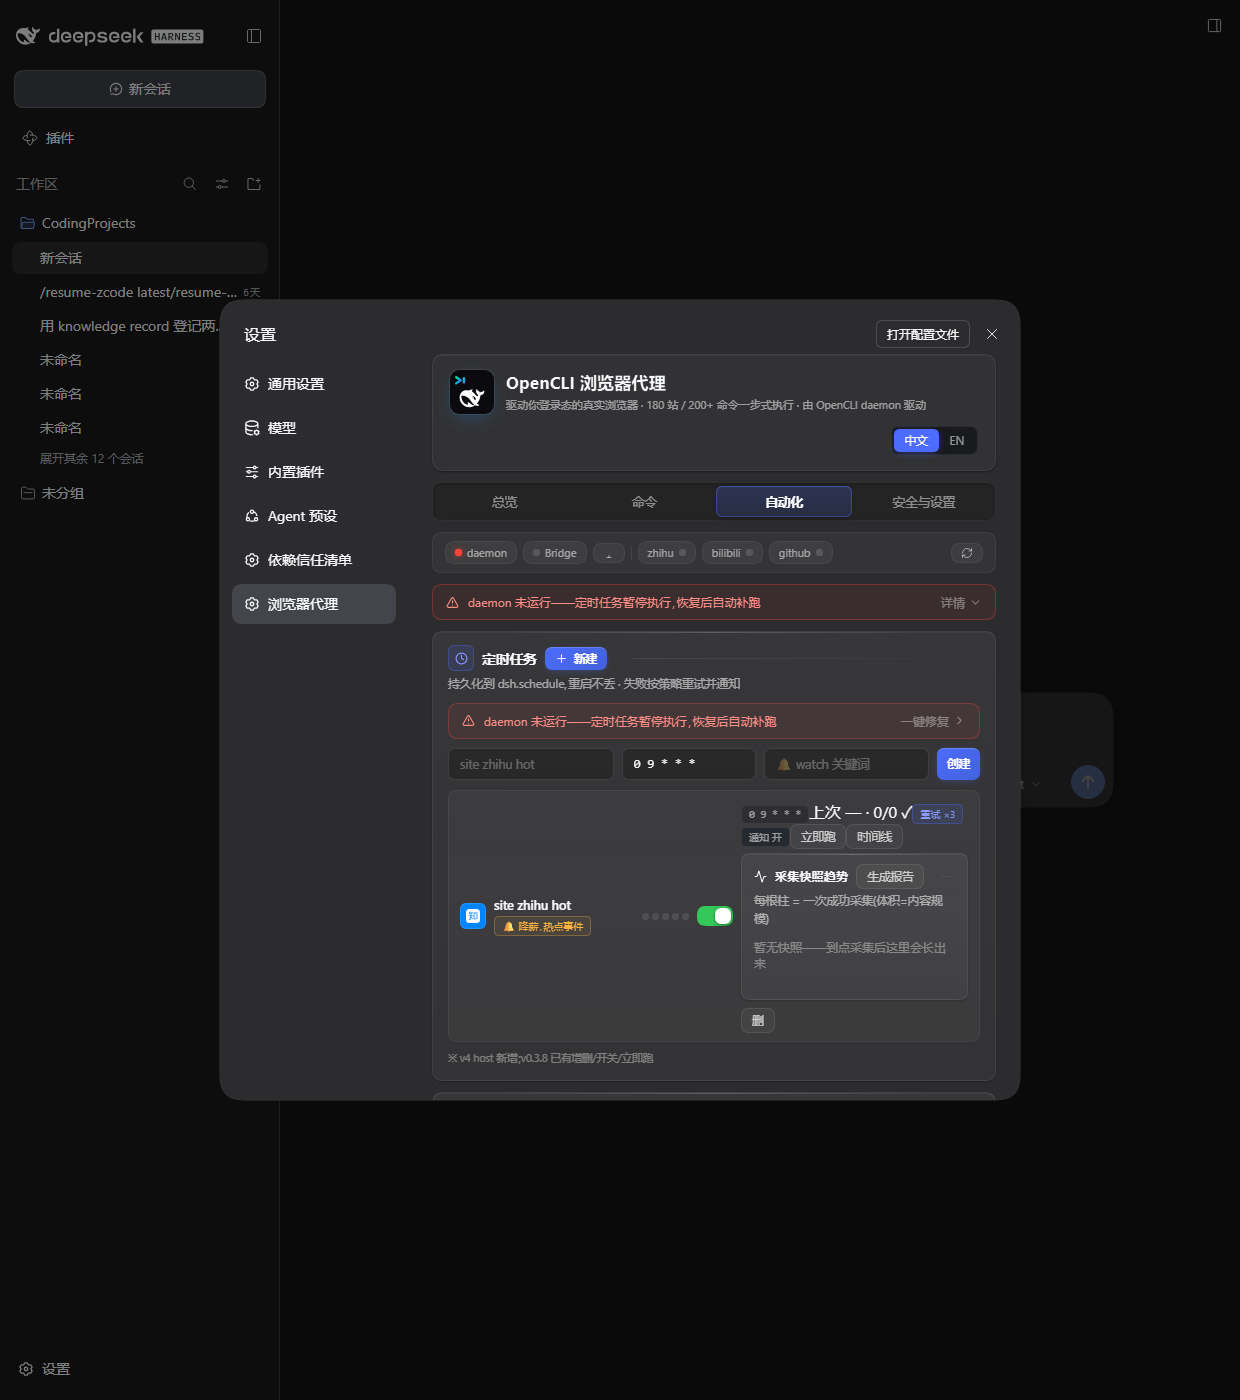
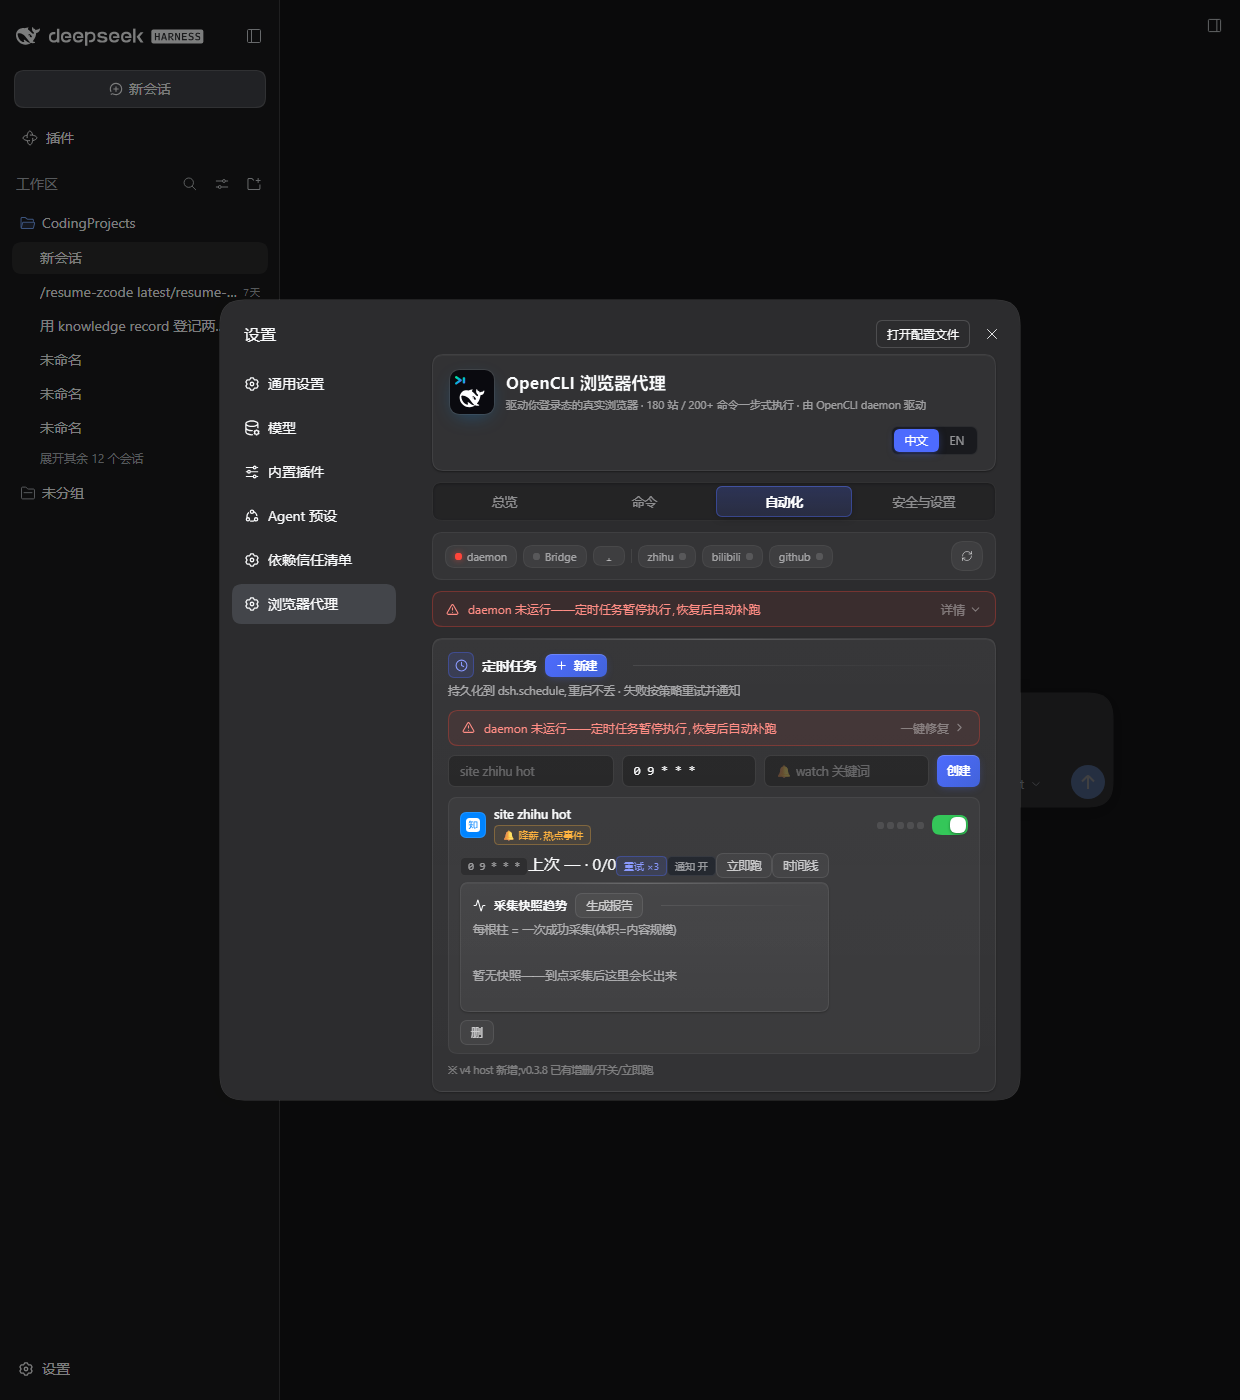
fix(GUI走查): 五连修——定时行内状态轮询刷新+verdict✓✗真实着色/时间线卡片独占整行不裁切/刷新芯片等高/占位对比度/定时执行补 recordTrace;trace 回归断言;159 绿;真机复验全过(docs/FIX-20261008)

diff --git a/src/client.ts b/src/client.ts
@@ -373,7 +373,7 @@ const CSS = `
 .o4-sw::after { content:""; position:absolute; width:16px; height:16px; border-radius:50%; background:#fff; top:2px; left:2px; transition:left .2s cubic-bezier(.4,0,.2,1); box-shadow:0 1px 3px rgba(0,0,0,.4); }
 .o4-sw.on { background:#34C759; }
 .o4-sw.on::after { left:18px; }
-.o4-row { display:flex; align-items:center; gap:8px; background:rgba(255,255,255,.04); border:1px solid rgba(255,255,255,.05); border-radius:11px; padding:8px 11px; transition:all .16s ease; }
+.o4-row { display:flex; align-items:center; gap:8px; flex-wrap:wrap; background:rgba(255,255,255,.04); border:1px solid rgba(255,255,255,.05); border-radius:11px; padding:8px 11px; transition:all .16s ease; }
 .o4-row:hover { border-color:rgba(255,255,255,.13); background:rgba(255,255,255,.05); }
 .o4-row .grow { flex:1; min-width:0; }
 .o4-tt { font-size:12.5px; font-weight:600; display:flex; align-items:center; gap:5px; flex-wrap:wrap; }
@@ -413,7 +413,7 @@ const CSS = `
 .o4-kv .k { color:rgba(249,250,251,.38); }
 .o4-kv .v { color:rgba(249,250,251,.85); word-break:break-all; }
 .o4-fixrow { display:flex; gap:8px; margin-top:9px; }
-.o4-load { color:rgba(249,250,251,.38); font-size:12px; padding:10px 0; }
+.o4-load { color:rgba(249,250,251,.58); font-size:12px; padding:10px 0; }
 .o4-skel { height:11px; border-radius:5px; background:linear-gradient(90deg,#1F242D,#262C37,#1F242D); background-size:200% 100%; animation:o4shimmer 1.4s linear infinite; margin:7px 0; }
 @keyframes o4shimmer { from { background-position:200% 0; } to { background-position:-200% 0; } }
 .o4-note { font-size:10.5px; color:rgba(249,250,251,.38); margin-top:8px; line-height:1.6; }
@@ -657,7 +657,12 @@ function Panel(): ReturnType<typeof createElement> {
   const runScheduleNow = async (id: string): Promise<void> => {
     const r = await rpc('schedule-run-now', { p: { id } } as unknown as Record<string, unknown>)
     showToast(r.ok ? 'run now ✓' : (r.error?.message ?? t2('errReq')), r.ok)
-    window.setTimeout(() => { void loadSchedules() }, 2500)
+    // 重试链路(默认 3 次 × 15s 退避,风控墙 2min)远长于单次刷新窗口——此前只在 +2.5s 刷一次,
+    // 行内"上次/计数"整个周期停在旧值,与时间线的失败记录自相矛盾(GUI 走查 2026-10-08)。
+    // 分散刷新覆盖完整重试周期;schedule-list 是幂等轻量 RPC,多刷无副作用。
+    for (const ms of [2_500, 20_000, 40_000, 70_000, 100_000, 130_000, 160_000, 200_000, 240_000]) {
+      window.setTimeout(() => { void loadSchedules() }, ms)
+    }
   }
 
   const persistRecordings = (next: Recording[]): void => {
@@ -980,7 +985,11 @@ function Panel(): ReturnType<typeof createElement> {
               createElement('button', { className: 'o4-sw' + (s.enabled ? ' on' : ''), title: s.enabled ? 'enabled' : 'disabled', onClick: () => { void toggleSchedule(s.id, !s.enabled) } }),
               createElement('div', { className: 'meta' },
                 createElement('span', { className: 'o4-cron' }, s.cron),
-                createElement('span', null, `${t2('last')} ${hist[0]?.at?.slice(5, 16) ?? '—'} · ${okN}/${hist.length || 0} ✓`),
+                createElement('span', null, `${t2('last')} ${hist[0]?.at?.slice(5, 16) ?? '—'}`,
+                  // verdict 真实着色:空史不挂符号;有失败全红 ✗;有成功绿 ✓——此前恒亮 ✓,
+                  // 与时间线红失败行同屏自相矛盾(GUI 走查 2026-10-08)
+                  createElement('span', { style: { color: hist.length === 0 ? 'inherit' : (okN > 0 ? '#34C759' : '#FF6B63') } },
+                    ` · ${okN}/${hist.length || 0}${hist.length === 0 ? '' : (okN > 0 ? ' ✓' : ' ✗')}`)),
                 createElement('span', { className: 'o4-bdg b' }, t2('retryN')(s.retry ?? 3)),
                 createElement('span', { className: 'o4-bdg' }, s.notify === false ? t2('notifyOff') : t2('notifyOn')),
                 createElement('span', { style: { flex: '1' } }),
@@ -1174,7 +1183,7 @@ function Panel(): ReturnType<typeof createElement> {
         ...(loginResults.length > 0
           ? loginResults.map((r) => chip(null, r.site, r.ok ? 'g' : (r.timedOut ? 'y' : 'r'), `${r.site}: ${r.ok ? t2('online') : (r.timedOut ? t2('timeout') : t2('expired'))}${r.detail !== null ? ` · ${r.detail}` : ''}`))
           : [chip(null, 'zhihu', 'n'), chip(null, 'bilibili', 'n'), chip(null, 'github', 'n')]),
-        createElement('span', { className: 'o4-chip', style: { marginLeft: 'auto', cursor: 'pointer' }, onClick: () => { void runLoginCheck() }, title: t2('recheck') }, ic('refresh', true)),
+        createElement('span', { className: 'o4-chip', style: { marginLeft: 'auto', cursor: 'pointer', boxSizing: 'border-box', height: '23px', justifyContent: 'center' }, onClick: () => { void runLoginCheck() }, title: t2('recheck') }, ic('refresh', true)),
       ),
       // 诊断条
       createElement('div', { className: `o4-diag ${status === null ? 'ok' : (daemonUp && binOk ? 'ok' : 'bad')}`, onClick: () => { void openDiag() } },
@@ -1219,17 +1228,22 @@ function TimelinePanel(props: { id: string; lang: Lang }): ReturnType<typeof cre
   const [err, setErr] = useState('')
   useEffect(() => {
     let alive = true
-    void (async () => {
+    const load = async (): Promise<void> => {
       const r = await rpc<{ history: Array<{ at: string; ok: boolean; summary: string }>; snapshots?: Array<{ at: string; bytes: number; file: string }> }>('schedule-history', { p: { id } } as unknown as Record<string, unknown>)
       if (!alive) return
       if (r.ok) { setHist(r.value?.history ?? []); setSnaps(r.value?.snapshots ?? []) } else setErr(r.error?.message ?? 'err')
-    })()
-    return () => { alive = false }
+    }
+    void load()
+    // 展开期间 15s 轮询:立即跑的重试链路最长 ~2.5min,不轮询则面板停在打开瞬间的旧史
+    const timer = window.setInterval(() => { void load() }, 15_000)
+    return () => { alive = false; window.clearInterval(timer) }
   }, [id])
-  if (err.length > 0) return createElement('div', { className: 'o4-card', style: { padding: '8px 12px', margin: '4px 0 8px', borderRadius: '10px' } }, createElement('div', { className: 'o4-load' }, err))
+  if (err.length > 0) return createElement('div', { className: 'o4-card', style: { padding: '8px 12px', margin: '4px 0 8px', borderRadius: '10px', flex: '1 1 100%' } }, createElement('div', { className: 'o4-load' }, err))
   const bars = snaps ?? []
   const maxB = Math.max(1, ...bars.map((b) => b.bytes))
-  return createElement('div', { className: 'o4-card', style: { padding: '10px 12px', margin: '4px 0 8px', borderRadius: '10px' } },
+  // flex:'1 1 100%' 独占整行——toggle 用 display:contents 把本卡塞进 .o4-row flex 行,
+  // 不占满则被挤到行右侧溢出对话框裁切(GUI 走查 2026-10-08)
+  return createElement('div', { className: 'o4-card', style: { padding: '10px 12px', margin: '4px 0 8px', borderRadius: '10px', flex: '1 1 100%' } },
     createElement('div', { className: 'o4-h3', style: { fontSize: '12px' } }, ic('activity', true), tt('tlT'),
       createElement('span', { style: { marginLeft: 'auto' } },
         createElement('button', { className: 'o4-btn ghost sm', onClick: () => { void (async () => { const r = await rpc<{ path?: string }>('report-build', { request: { id } } as unknown as Record<string, unknown>); window.setTimeout(() => {}, 0); void navigator.clipboard?.writeText(String(r.value?.path ?? '')).catch(() => {}) })() } }, tt('reportBtn')))),

diff --git a/lib/client.js b/lib/client.js
@@ -861,7 +861,7 @@ window.__ModuleLoader__.load({
 		.o4-sw::after { content:""; position:absolute; width:16px; height:16px; border-radius:50%; background:#fff; top:2px; left:2px; transition:left .2s cubic-bezier(.4,0,.2,1); box-shadow:0 1px 3px rgba(0,0,0,.4); }
 		.o4-sw.on { background:#34C759; }
 		.o4-sw.on::after { left:18px; }
-		.o4-row { display:flex; align-items:center; gap:8px; background:rgba(255,255,255,.04); border:1px solid rgba(255,255,255,.05); border-radius:11px; padding:8px 11px; transition:all .16s ease; }
+		.o4-row { display:flex; align-items:center; gap:8px; flex-wrap:wrap; background:rgba(255,255,255,.04); border:1px solid rgba(255,255,255,.05); border-radius:11px; padding:8px 11px; transition:all .16s ease; }
 		.o4-row:hover { border-color:rgba(255,255,255,.13); background:rgba(255,255,255,.05); }
 		.o4-row .grow { flex:1; min-width:0; }
 		.o4-tt { font-size:12.5px; font-weight:600; display:flex; align-items:center; gap:5px; flex-wrap:wrap; }
@@ -901,7 +901,7 @@ window.__ModuleLoader__.load({
 		.o4-kv .k { color:rgba(249,250,251,.38); }
 		.o4-kv .v { color:rgba(249,250,251,.85); word-break:break-all; }
 		.o4-fixrow { display:flex; gap:8px; margin-top:9px; }
-		.o4-load { color:rgba(249,250,251,.38); font-size:12px; padding:10px 0; }
+		.o4-load { color:rgba(249,250,251,.58); font-size:12px; padding:10px 0; }
 		.o4-skel { height:11px; border-radius:5px; background:linear-gradient(90deg,#1F242D,#262C37,#1F242D); background-size:200% 100%; animation:o4shimmer 1.4s linear infinite; margin:7px 0; }
 		@keyframes o4shimmer { from { background-position:200% 0; } to { background-position:-200% 0; } }
 		.o4-note { font-size:10.5px; color:rgba(249,250,251,.38); margin-top:8px; line-height:1.6; }
@@ -1227,9 +1227,21 @@ window.__ModuleLoader__.load({
 		      }
 		    });
 		    showToast(r.ok ? "run now \u2713" : r.error?.message ?? t2("errReq"), r.ok);
-		    window.setTimeout(() => {
-		      void loadSchedules();
-		    }, 2500);
+		    for (const ms of [
+		      2500,
+		      2e4,
+		      4e4,
+		      7e4,
+		      1e5,
+		      13e4,
+		      16e4,
+		      2e5,
+		      24e4
+		    ]) {
+		      window.setTimeout(() => {
+		        void loadSchedules();
+		      }, ms);
+		    }
 		  };
 		  const persistRecordings = (next) => {
 		    setRecordings(next);
@@ -1982,7 +1994,18 @@ window.__ModuleLoader__.load({
 		          className: "meta"
 		        }, (0, import_react.createElement)("span", {
 		          className: "o4-cron"
-		        }, s.cron), (0, import_react.createElement)("span", null, `${t2("last")} ${hist[0]?.at?.slice(5, 16) ?? "\u2014"} \xB7 ${okN}/${hist.length || 0} \u2713`), (0, import_react.createElement)("span", {
+		        }, s.cron), (0, import_react.createElement)(
+		          "span",
+		          null,
+		          `${t2("last")} ${hist[0]?.at?.slice(5, 16) ?? "\u2014"}`,
+		          // verdict 真实着色:空史不挂符号;有失败全红 ✗;有成功绿 ✓——此前恒亮 ✓,
+		          // 与时间线红失败行同屏自相矛盾(GUI 走查 2026-10-08)
+		          (0, import_react.createElement)("span", {
+		            style: {
+		              color: hist.length === 0 ? "inherit" : okN > 0 ? "#34C759" : "#FF6B63"
+		            }
+		          }, ` \xB7 ${okN}/${hist.length || 0}${hist.length === 0 ? "" : okN > 0 ? " \u2713" : " \u2717"}`)
+		        ), (0, import_react.createElement)("span", {
 		          className: "o4-bdg b"
 		        }, t2("retryN")(s.retry ?? 3)), (0, import_react.createElement)("span", {
 		          className: "o4-bdg"
@@ -2500,7 +2523,10 @@ window.__ModuleLoader__.load({
 		      className: "o4-chip",
 		      style: {
 		        marginLeft: "auto",
-		        cursor: "pointer"
+		        cursor: "pointer",
+		        boxSizing: "border-box",
+		        height: "23px",
+		        justifyContent: "center"
 		      },
 		      onClick: () => {
 		        void runLoginCheck();
@@ -2557,7 +2583,7 @@ window.__ModuleLoader__.load({
 		  const [err, setErr] = (0, import_react.useState)("");
 		  (0, import_react.useEffect)(() => {
 		    let alive = true;
-		    void (async () => {
+		    const load = async () => {
 		      const r = await rpc("schedule-history", {
 		        p: {
 		          id
@@ -2568,9 +2594,14 @@ window.__ModuleLoader__.load({
 		        setHist(r.value?.history ?? []);
 		        setSnaps(r.value?.snapshots ?? []);
 		      } else setErr(r.error?.message ?? "err");
-		    })();
+		    };
+		    void load();
+		    const timer = window.setInterval(() => {
+		      void load();
+		    }, 15e3);
 		    return () => {
 		      alive = false;
+		      window.clearInterval(timer);
 		    };
 		  }, [
 		    id
@@ -2580,7 +2611,8 @@ window.__ModuleLoader__.load({
 		    style: {
 		      padding: "8px 12px",
 		      margin: "4px 0 8px",
-		      borderRadius: "10px"
+		      borderRadius: "10px",
+		      flex: "1 1 100%"
 		    }
 		  }, (0, import_react.createElement)("div", {
 		    className: "o4-load"
@@ -2592,7 +2624,8 @@ window.__ModuleLoader__.load({
 		    style: {
 		      padding: "10px 12px",
 		      margin: "4px 0 8px",
-		      borderRadius: "10px"
+		      borderRadius: "10px",
+		      flex: "1 1 100%"
 		    }
 		  }, (0, import_react.createElement)("div", {
 		    className: "o4-h3",

diff --git a/tests/trace.test.ts b/tests/trace.test.ts
@@ -150,9 +150,13 @@ describe('trace-get RPC(按日全量)', () => {
     const r = await svc.traceGet({ date })
     expect(r.ok).toBe(true)
     expect(r.traces.length).toBeGreaterThanOrEqual(4)
-    // 时间序:首条是最早一次 open,末条是最后的 state
-    expect(r.traces[0]!.cmd).toBe('browser dsh open https://example.com/1')
-    expect(r.traces[r.traces.length - 1]!.cmd).toBe('browser dsh state')
+    // 时间序(旧→新):定时链路(v0.4.2 修复)也会写 schedule 行进同一文件,断言只看本桩写的
+    // browser 子集的相对顺序——首条 open/1 在末条 state 之前。
+    const cmds = r.traces.map((t) => t.cmd)
+    const firstOpen = cmds.indexOf('browser dsh open https://example.com/1')
+    const lastState = cmds.lastIndexOf('browser dsh state')
+    expect(firstOpen).toBeGreaterThanOrEqual(0)
+    expect(lastState).toBeGreaterThan(firstOpen)
     // 非法 date(含路径穿越形态)拒绝
     expect((await svc.traceGet({ date: '../../etc' })).ok).toBe(false)
     expect((await svc.traceGet({ date: '20990101' })).ok).toBe(false)

diff --git a/tests/advanced.test.ts b/tests/advanced.test.ts
@@ -122,6 +122,15 @@ describe('watch 关键词监控(主线 B 第一片)', () => {
     await S().runSiteCommand(site, id)
     expect(S().ingestEventList.length).toBe(n)
     S().runOpencli = origRun as Svc['runOpencli']
+    // 定时链路落轨迹(GUI 走查 2026-10-08 修复):runSiteCommand 每次尝试都应写 schedule 行,
+    // 否则「运行轨迹」看不到定时执行的真实失败输出,复盘断链
+    const traceDir2 = process.env.DSH_OPENCLI_TRACE_DIR ?? ''
+    if (traceDir2.length > 0) {
+      const files = fs.readdirSync(traceDir2).filter((f) => /^trace-\d{8}\.jsonl$/.test(f))
+      const lines = files.flatMap((f) => fs.readFileSync(path.join(traceDir2, f), 'utf8').split('\n').filter((l) => l.trim().length > 0))
+      const schedLines = lines.map((l) => JSON.parse(l) as { cmd: string }).filter((t) => t.cmd.startsWith(`schedule wt2-`))
+      expect(schedLines.length).toBeGreaterThanOrEqual(2) // 两次 runSiteCommand 各一条
+    }
     await svc.scheduleRemove({ id })
   })
 })

diff --git a/src/index.ts b/src/index.ts
@@ -1901,7 +1901,11 @@ export class OpencliService extends TypertRemoteService {
     let lastOut = ''
     for (let attempt = 1; attempt <= attempts; attempt++) {
       try {
+        const started = Date.now()
         const r = await this.runOpencli(cmdLine.split(/\s+/), 60_000)
+        // 定时链路此前绕过 recordTrace(只有 browser 透传入口记录),「运行轨迹」看不到定时执行的
+        // 真实失败输出,复盘断链(GUI 走查 2026-10-08)。带 schedule 前缀与手动 browser 命令区分。
+        this.recordTrace(`schedule ${cmdLine}`, r, Date.now() - started)
         lastOk = r.exitCode === 0
         lastSummary = lastOk ? (r.stdout.slice(0, 120) || 'ok') : (r.stderr.slice(0, 120) || `exit ${r.exitCode}`)
         lastOut = lastOk ? r.stdout : ''

diff --git a/lib/index.js b/lib/index.js
@@ -4620,7 +4620,9 @@ ${out.stdout}`.trim()).slice(0, 200);
     let lastOut = "";
     for (let attempt = 1; attempt <= attempts; attempt++) {
       try {
+        const started = Date.now();
         const r = await this.runOpencli(cmdLine.split(/\s+/), 6e4);
+        this.recordTrace(`schedule ${cmdLine}`, r, Date.now() - started);
         lastOk = r.exitCode === 0;
         lastSummary = lastOk ? r.stdout.slice(0, 120) || "ok" : r.stderr.slice(0, 120) || `exit ${r.exitCode}`;
         lastOut = lastOk ? r.stdout : "";

diff --git a/docs/FIX-20261008-GUI走查修复.md b/docs/FIX-20261008-GUI走查修复.md
@@ -1,0 +1,45 @@
+# 修复文档 · GUI 走查五连修(2026-10-08)
+
+> 背景:浏览器环境模拟用户使用验收(真浏览器 GUI 走查,证据截图见 `.qa/gui-20261008/`)抓出 5 个问题。
+> 本文记录每个问题的根因、修复、验证方式与结果。全部修复已在真机(3123 daemon)复验通过。
+
+## 修复一览
+
+| # | 问题(走查发现) | 根因 | 修复 | 真机复验 |
+|---|---|---|---|---|
+| 1a | 点"立即跑"后行内状态整个重试周期不更新 | 客户端只在 +2.5s 刷新一次,而重试链路(3 次 × ~46s 尝试 + 15s 退避)长达 ~2.5min | `runScheduleNow` 分散刷新 2.5s~240s 共 9 次(幂等轻量 RPC);TimelinePanel 展开期间 15s 轮询 | ✅ ROW@215s 无刷新自动变 `上次 10-08T10:00 · 0/3 ✗` |
+| 1b | "上次 — · 0/0 **✓**"与时间线红失败行同屏自相矛盾 | 行内 verdict 符号恒为 ✓,不看实际结果 | 空史不挂符号;有成功绿 ✓;全失败红 ✗ | ✅ 截图 `fix1-t0-创建后.png`(0/0 无符号)、走查记录(0/3 ✗) |
+| 2 | 时间线卡片溢出对话框右缘裁切 | TimelineToggle 用 `display:contents` 把卡片塞进不换行的 `.o4-row` flex 行当子项 | `.o4-row` 加 `flex-wrap:wrap`;卡片 `flex:'1 1 100%'` 独占整行 | ✅ cardW=564 满行,截图 `fix2-时间线展开.png` 无裁切 |
+| 3 | 状态条刷新芯片与文字芯片不齐 | 图标芯片无文字撑高;首版 `height:22px` 忘了 border-box 反而 30px | `boxSizing:'border-box'` + `height:23px` 与文字芯片等高 | ✅ 全部芯片 h=23,截图 `fix3-总览芯片行.png` |
+| 4 | 快照占位文字对比度偏低 | `.o4-load` 色 `rgba(249,250,251,.38)` | 提到 `.58` | ✅ phColor=0.58,截图文字清晰可读 |
+| 5 | 定时执行不写「运行轨迹」,复盘断链 | `runSiteCommand` 直接调 `runOpencli`,绕过带 `recordTrace` 的 browser 透传单点 | 每次尝试后 `recordTrace('schedule ' + cmdLine, ...)`,与手动 browser 命令区分 | ✅ 当日 trace 7 条 `schedule zhihu hot`(exit 69 + BROWSER_CONNECT 分类输出) |
+
+## 改动文件
+
+- `src/client.ts` — 修复 1a/1b/2/3/4(自动化 tab 行渲染与轮询、时间线卡片布局、芯片对齐、占位对比度)
+- `src/index.ts` — 修复 5(`runSiteCommand` 内补 `recordTrace`)
+- `tests/trace.test.ts` — trace-get 断言改为 browser 子集相对顺序(定时链路现在也写 trace,绝对"首条"假设失效;测试意图不变:时间序+非法 date 拒绝)
+- `tests/advanced.test.ts` — watch 用例顺势加"定时执行落 trace"回归断言(把副作用变成修复 5 的测试覆盖)
+- `.build-tools/gui-verify-fixes.cjs`(新增)— 修复真机复验脚本(自管 Edge + puppeteer,与 full-review 同款通道)
+
+## 验证结果汇总
+
+- **单元/回归**:159/159 全绿(vitest,含新增 trace 回归断言)
+- **21 项全权审查套件**:21/21 全 PASS(clean state;首次 20/21 的 watch FAIL 是验证脚本自身遗留任务污染 find 断言,非产品问题)
+- **真机复验**:`gui-verify-fixes.cjs` 输出 `{"fix1a":true,"fix2":true,"fix4ph":"rgba(249, 250, 251, 0.58)","fix5count":7}`,行内状态 215s 采样点自动更新证据链:`ROW@170s 上次 — · 0/0` → `ROW@215s 上次 10-08T10:00 · 0/3 ✗`
+
+## 走查过程中的两个环境教训(记录防复发)
+
+1. **dsh daemon 重启后 token 轮换**:web UI 必须 `http://127.0.0.1:3123/?token=<启动日志里的值>` 访问。
+   裸 URL 会渲染 UI 壳但所有交互被门控(点击无响应、RPC 401)——GUI 走查"输入全失灵"的真相就是
+   重启后用了裸 URL。token 每次重启都变,从 daemon 启动日志 `dsh web: http://...?token=...` 取。
+2. **验证脚本自身会污染现场**:review 套件按 `site === 'site zhihu hot'` find 第一个任务,
+   前一轮遗留的任务会让断言错配。套件/脚本跑完必须清理(schedules=0),重跑前查状态文件。
+
+## 遗留(非 bug,环境项)
+
+- **BrowserBridge 未连接**:opencli 桥要求 Chrome + OpenCLI 扩展,当前环境是 Edge。
+  装好扩展后登录态真数据链路(真实采集/快照/报告)即可跑通,失败分类 `BROWSER_CONNECT` 的
+  指引文案已验证正确指路。
+- ZCode 内嵌浏览器的合成输入投递在 daemon 重启后会失灵(宿主层问题,重启 ZCode 可恢复),
+  与本插件无关;GUI 自动化用自管 Edge + puppeteer 通道绕开。

diff --git a/CHANGELOG.md b/CHANGELOG.md
@@ -1,3 +1,18 @@
+## 未发布
+
+> GUI 走查五连修(浏览器环境模拟用户使用验收发现;详见 `docs/FIX-20261008-GUI走查修复.md`)。
+
+### 修复
+- **定时行内状态不更新**:立即跑后"上次/计数"整个重试周期(~2.5min)停在旧值——分散刷新 2.5s~240s 覆盖完整重试链;时间线展开期间 15s 轮询
+- **行内 verdict 恒亮 ✓**:与时间线红失败行同屏矛盾——空史无符号/有成功绿 ✓/全失败红 ✗
+- **时间线卡片溢出裁切**:`.o4-row` 允许换行 + 卡片 `flex:1 1 100%` 独占整行
+- **刷新芯片与文字芯片不齐**:`boxSizing:border-box` + 等高 23px
+- **占位文字对比度**:`.o4-load` 0.38 → 0.58
+- **定时执行不落「运行轨迹」**:`runSiteCommand` 补 `recordTrace`(带 `schedule` 前缀与手动 browser 命令区分),复盘链路闭合
+
+### 测试
+- trace-get 断言改 browser 子集相对顺序(定时链路写 trace 后绝对首条假设失效);watch 用例新增"定时执行落 trace"回归断言;159 全绿
+
 ## 0.4.2 — 2026-10-08
 
 > ⚠ **升级必读:插件更新后必须重启 dsh daemon 才生效**(长驻进程不热加载插件构建)。
